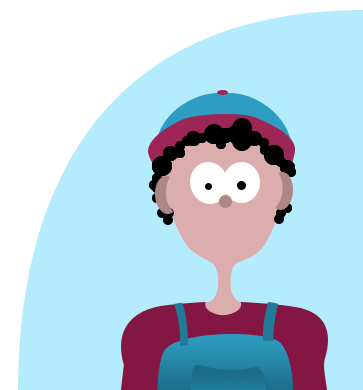
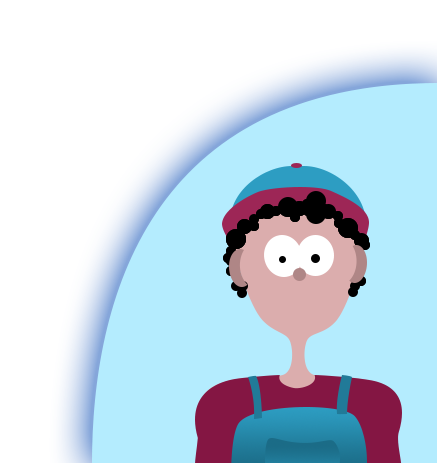
change colors : deault color and win pannel background

diff --git a/script/data/palette.js b/script/data/palette.js
@@ -4,7 +4,7 @@ define ([
 
 		return {
             palette : ["0x83EE00", "0xFBFE00", "0x058AB6", "0xE4005C", "0x8007BE", "0xFF8300"],
-			defaultColor : "0x93AFBD",
+			defaultColor : "0xafc7ff",
 			patternColor : "0x000000"
 		};
 
